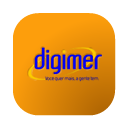
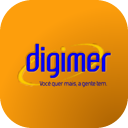
correcao de assets e icones mobile

diff --git a/scripts/sections/head.ts b/scripts/sections/head.ts
@@ -5,9 +5,9 @@ $("./head") {
 	insert("meta", name: "mobile-web-app-capable", content: "yes");
 	insert("meta", name: "apple-mobile-web-app-capable", content: "yes");
 
-	insert("link", rel: "shortcut icon", sizes: "196x196", href: "_moovweb_local_assets_/images/touchicon_highres.png");
-	insert("link", rel: "shortcut icon", sizes: "128x128", href: "_moovweb_local_assets_/images/touchicon.png");
-	insert("link", rel: "apple-touch-icon", sizes: "128x128", href: "_moovweb_local_assets_/images/touchicon.png");
-	insert("link", rel: "apple-touch-icon-precomposed", sizes: "128x128", href: "_moovweb_local_assets_/images/touchicon.png");
-	insert("link", rel: "icon", type: "image/x-icon", href: "_moovweb_local_assets_/images/favicon.ico");
+	insert("link", rel: "shortcut icon", sizes: "196x196", href: asset("images/touchicon_highres.png"));
+	insert("link", rel: "shortcut icon", sizes: "128x128", href: asset("images/touchicon.png"));
+	insert("link", rel: "apple-touch-icon", sizes: "128x128", href: asset("images/touchicon.png"));
+	insert("link", rel: "apple-touch-icon-precomposed", sizes: "128x128", href: asset("images/touchicon.png"));
+	insert("link", rel: "icon", type: "image/x-icon", href: asset("images/favicon.ico"));
 }
